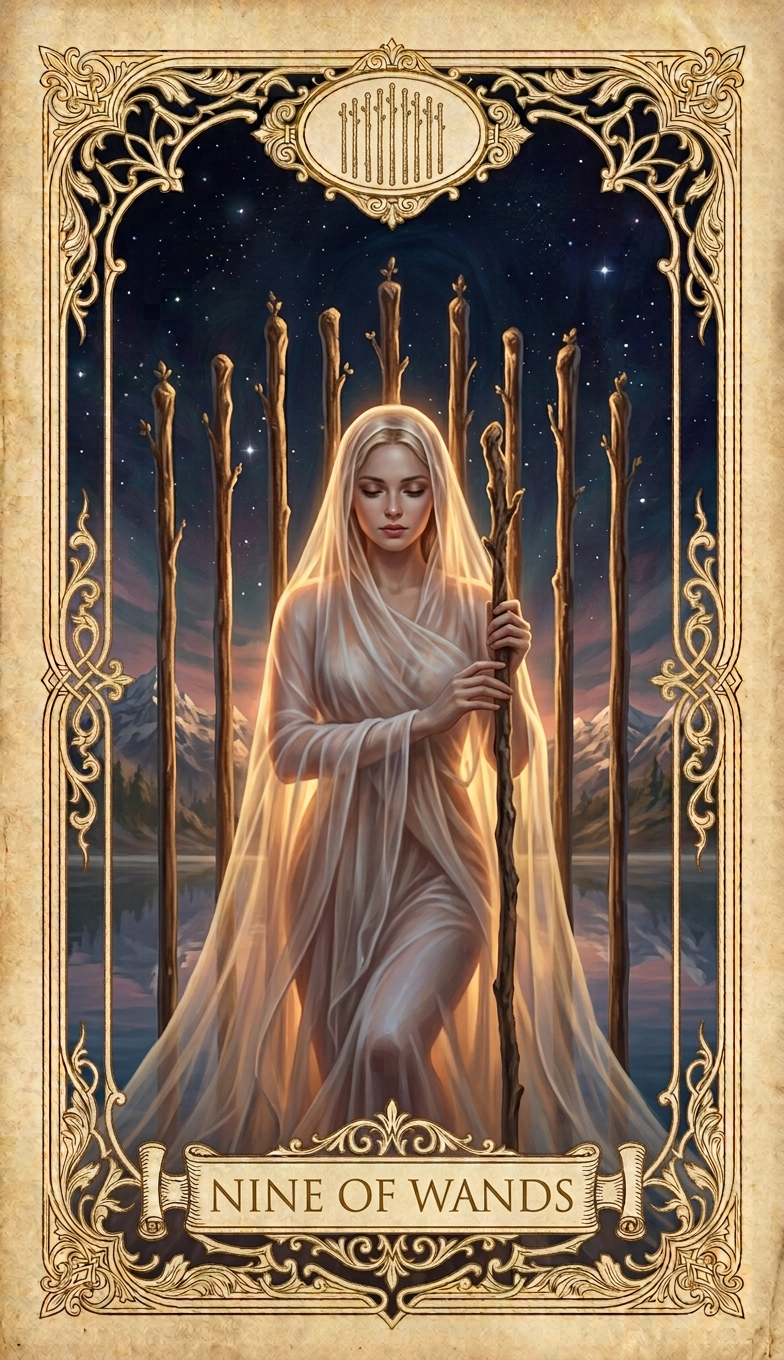
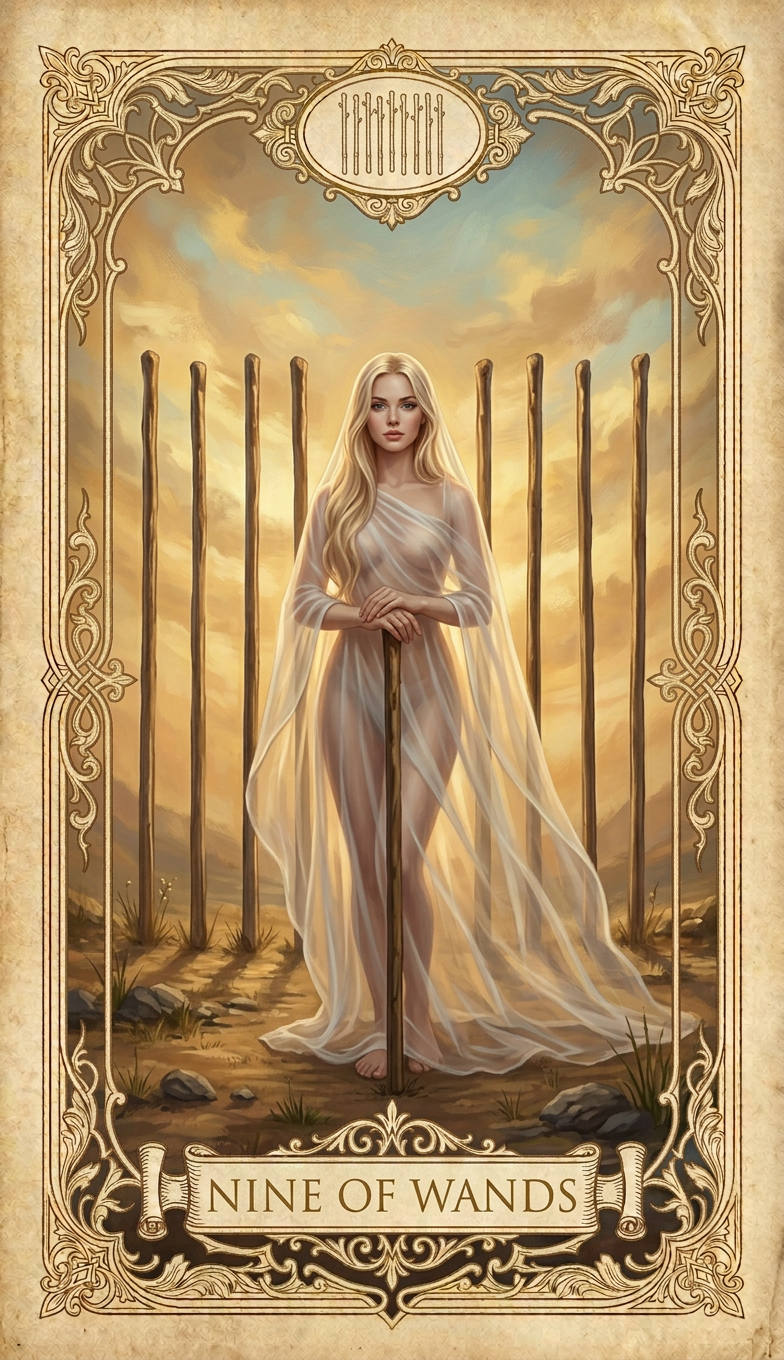
Rework 5 Wands with clear separated layouts + wand counter script
Redid Three, Eight, Nine, Page, Knight of Wands with spatially-separated,
non-overlapping wand layouts (clear sky gaps between shafts) to make counts
verifiable. Frame-checked vs The Star (RMSE 0.019-0.032).

Added scripts/count_wands.py (Canny+Hough cluster counter) — note: the
automated counter is approximate/noisy on painted art (drapery folds, horse
legs, masts register as shafts), so exact counts need visual confirmation.
Added web/wands-count-check.html for side-by-side visual verification.

Wands rework is now complete: 14/14.

diff --git a/web/wands-count-check.html b/web/wands-count-check.html
@@ -1,0 +1,33 @@
+<!DOCTYPE html>
+<html lang="vi">
+<head>
+<meta charset="UTF-8">
+<meta name="viewport" content="width=device-width, initial-scale=1.0">
+<title>Kiểm tra số gậy — 5 lá Wands</title>
+<style>
+  :root { --bg:#0e0c0a; --panel:#1e1a14; --gold:#d4af37; --ink:#e6d7b8; --ink-dim:#a8987e; --line:#3a3124; --ok:#7fbf6a; --warn:#d4a24a; }
+  * { margin:0; padding:0; box-sizing:border-box; }
+  body { background:radial-gradient(1000px 500px at 50% -80px, rgba(212,175,55,.07), transparent 60%), var(--bg); color:var(--ink); font-family:Georgia,serif; min-height:100vh; padding:32px 20px 80px; }
+  h1 { letter-spacing:3px; text-align:center; color:var(--gold); font-size:clamp(1.3rem,3vw,1.9rem); margin-bottom:6px; }
+  p.sub { text-align:center; color:var(--ink-dim); margin-bottom:26px; font-style:italic; }
+  .grid { display:grid; grid-template-columns:repeat(auto-fit, minmax(240px, 1fr)); gap:22px; max-width:1500px; margin:0 auto; }
+  .card { background:var(--panel); border:1px solid var(--line); border-radius:12px; overflow:hidden; }
+  .card img { width:100%; display:block; }
+  .label { padding:12px 14px; text-align:center; border-top:1px solid var(--line); }
+  .label .t { color:var(--gold); letter-spacing:1px; font-size:1rem; }
+  .label .c { display:block; margin-top:4px; font-size:.95rem; }
+  .label .c.need { color:var(--warn); font-weight:bold; }
+</style>
+</head>
+<body>
+<h1>🔍 Kiểm tra số gậy — 5 lá Wands</h1>
+<p class="sub">Đếm trực quan từng lá. Số gậy phải đúng: 3 · 8 · 9 · 1 · 1</p>
+<div class="grid">
+  <div class="card"><img src="../cards/wands-03.png" alt="Three of Wands"><div class="label"><span class="t">THREE OF WANDS</span><span class="c need">Cần ĐÚNG 3 gậy</span></div></div>
+  <div class="card"><img src="../cards/wands-08.png" alt="Eight of Wands"><div class="label"><span class="t">EIGHT OF WANDS</span><span class="c need">Cần ĐÚNG 8 gậy</span></div></div>
+  <div class="card"><img src="../cards/wands-09.png" alt="Nine of Wands"><div class="label"><span class="t">NINE OF WANDS</span><span class="c need">Cần ĐÚNG 9 gậy</span></div></div>
+  <div class="card"><img src="../cards/wands-page.png" alt="Page of Wands"><div class="label"><span class="t">PAGE OF WANDS</span><span class="c need">Cần ĐÚNG 1 gậy</span></div></div>
+  <div class="card"><img src="../cards/wands-knight.png" alt="Knight of Wands"><div class="label"><span class="t">KNIGHT OF WANDS</span><span class="c need">Cần ĐÚNG 1 gậy</span></div></div>
+</div>
+</body>
+</html>

diff --git a/scripts/count_wands.py b/scripts/count_wands.py
@@ -1,0 +1,82 @@
+#!/usr/bin/env python3
+"""
+Wand counter v2 — cluster long shaft segments by spatial position.
+For near-vertical wands: cluster by x-center.
+For diagonal wands (8): cluster by perpendicular offset (rho).
+Reports cluster count + saves annotated debug image.
+"""
+import cv2
+import numpy as np
+import sys, os
+
+def detect(path, mode="vertical", min_len_ratio=0.18):
+    img = cv2.imread(path)
+    H, W = img.shape[:2]
+    x0, x1 = int(W*0.09), int(W*0.91)
+    y0, y1 = int(H*0.12), int(H*0.88)
+    panel = img[y0:y1, x0:x1]
+    gray = cv2.cvtColor(panel, cv2.COLOR_BGR2GRAY)
+    edges = cv2.Canny(cv2.GaussianBlur(gray,(5,5),0), 50, 150)
+    minlen = int(min(panel.shape[0], panel.shape[1]) * min_len_ratio)
+    lines = cv2.HoughLinesP(edges, 1, np.pi/180, threshold=50,
+                            minLineLength=minlen, maxLineGap=10)
+    if lines is None:
+        return 0, panel, []
+    if lines.ndim == 3: lines = lines[:,0,:]
+
+    segs = []
+    for (x1,y1,x2,y2) in lines:
+        dx, dy = x2-x1, y2-y1
+        L = np.hypot(dx,dy)
+        if L < minlen: continue
+        ang = np.degrees(np.arctan2(dy, dx))  # -180..180
+        a = abs(ang)
+        if mode == "vertical":
+            # near-vertical: |angle| in [55,125]
+            if 55 <= a <= 125:
+                segs.append(( (x1+x2)/2.0, (y1+y2)/2.0, L ))
+        else:  # diagonal (positive slope, ~30-60deg)
+            if 25 <= a <= 65:
+                # perpendicular offset rho ~ y*cos - x*sin for line; use center projection
+                cx, cy = (x1+x2)/2.0, (y1+y2)/2.0
+                theta = np.radians(ang)
+                rho = abs(cy*np.cos(theta) - cx*np.sin(theta))
+                segs.append((rho, cx, L))
+    if not segs:
+        return 0, panel, []
+
+    key = [s[0] for s in segs]
+    key = sorted(key)
+    # cluster by gap
+    clusters = []
+    cur = [key[0]]
+    for k in key[1:]:
+        if k - cur[-1] > 18:   # gap threshold (px)
+            clusters.append(cur); cur = [k]
+        else:
+            cur.append(k)
+    clusters.append(cur)
+
+    # annotate: draw all accepted segments
+    dbg = panel.copy()
+    for (x1,y1,x2,y2) in lines:
+        dx,dy=x2-x1,y2-y1
+        L=np.hypot(dx,dy)
+        if L<minlen: continue
+        a=abs(np.degrees(np.arctan2(dy,dx)))
+        ok = (55<=a<=125) if mode=="vertical" else (25<=a<=65)
+        if ok:
+            cv2.line(dbg,(x1,y1),(x2,y2),(0,0,255),2)
+    return len(clusters), dbg, clusters
+
+if __name__ == "__main__":
+    jobs = [("wands-03","vertical"),("wands-09","vertical"),
+            ("wands-08","diagonal"),("wands-knight","vertical")]
+    root="/home/user/tarot-card/raw"
+    for slug, mode in jobs:
+        p=os.path.join(root,slug+".png")
+        if not os.path.exists(p):
+            print(f"{slug:14s} MISSING"); continue
+        n, dbg, cl = detect(p, mode)
+        out=f"/tmp/{slug}-clusters.png"; cv2.imwrite(out, dbg)
+        print(f"{slug:14s} {mode:9s} -> {n} cluster(s)   [{out}]")
